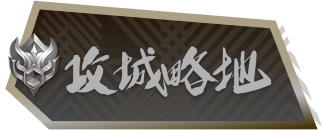
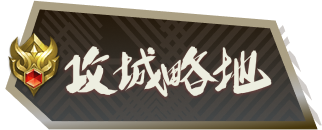
fix: stake init

Changed region(s): [[0.0311, 0.2462, 0.8696, 0.7692]]

diff --git a/src/pages/stake/entry.vue b/src/pages/stake/entry.vue
@@ -1,0 +1,224 @@
+<template>
+  <div class="box">
+    <div class="main">
+      <div class="item" v-for="item in pools" :key="item.key">
+        <div class="inner">
+          <img :src="item.img" alt="" />
+          <div class="top_right">
+            <div>挑战</div>
+            <img src="../../assets/stake/scroll.png" alt="" />
+          </div>
+          <div class="center">
+            <img :src="item.diff" alt="" />
+            <div>{{ getDiffName(item.key) }}</div>
+          </div>
+        </div>
+        <div class="name">
+          {{ item.name }}
+        </div>
+        <div class="apy">APY {{ item.apy }}</div>
+      </div>
+    </div>
+    <div class="badge">
+      <img src="../../assets/stake/bg.png" alt="" />
+    </div>
+    <div class="bottom">
+      <div class="badge_icon">
+        <img src="../../assets/stake/badge.png" alt="" />
+      </div>
+      <div class="title">
+        <div class="text">攻城略地</div>
+        <img src="../../assets/stake/divider.png" alt="" />
+      </div>
+      <div class="back_btn" @click="()=>$router.push({
+          name:'home'})" >
+        <img src="../../assets/stake/back.png" alt="" />
+        <div class="text">主页</div>
+      </div>
+    </div>
+  </div>
+</template>
+
+<script>
+import { reactive, toRefs, onBeforeMount, onMounted } from "vue";
+export default {
+  name: "stake_main",
+  setup() {
+    const data = reactive({
+      pools: [
+        {
+          key: 0,
+          name: "黄巾之乱",
+          apy: "40.5%",
+          time: 7,
+          img: require("../../assets/stake/p_0.png"),
+          diff: require("../../assets/stake/h0.png"),
+        },
+        {
+          key: 1,
+          name: "夷陵之战",
+          apy: "40.5%",
+          time: 15,
+          img: require("../../assets/stake/p_1.png"),
+          diff: require("../../assets/stake/h1.png"),
+        },
+        {
+          key: 2,
+          name: "决战虎牢关",
+          apy: "40.5%",
+          time: 30,
+          img: require("../../assets/stake/p_2.png"),
+          diff: require("../../assets/stake/h2.png"),
+        },
+      ],
+    });
+    const getDiffName = (idx) => {
+      return ["简单", "中等", "困难"][idx];
+    };
+    onBeforeMount(() => {});
+    onMounted(() => {});
+    const refData = toRefs(data);
+    return {
+      ...refData,
+      getDiffName,
+    };
+  },
+};
+</script>
+<style lang='less' scoped>
+.box {
+  width: 100%;
+  height: 100%;
+  position: relative;
+  background: #200202;
+  .badge {
+    position: absolute;
+    width: 80%;
+    left: 50%;
+    bottom: 10%;
+    transform: translate(-50%, 0);
+    z-index: 1;
+    img {
+      width: 100%;
+    }
+  }
+}
+.main {
+  position: absolute;
+  top: 40%;
+  left: 50%;
+  transform: translate(-50%, -50%);
+  display: flex;
+  align-items: center;
+  justify-content: center;
+  background: linear-gradient(180deg, #480808 0%, rgba(104, 18, 18, 0) 100%);
+  z-index: 2;
+  .item {
+    &:hover {
+      opacity: 0.8;
+    }
+    cursor: pointer;
+    width: 18rem;
+    height: 28rem;
+    margin: 0 5rem;
+    margin-top: 5rem;
+    display: flex;
+    flex-direction: column;
+    align-items: center;
+    .inner {
+      width: 100%;
+      height: 100%;
+      position: relative;
+
+      img {
+        border-radius: 16px;
+        width: 100%;
+        height: 100%;
+      }
+      .center {
+        position: absolute;
+        top: 50%;
+        left: 50%;
+        transform: translate(-50%, -50%);
+        display: flex;
+        flex-direction: column;
+        align-items: center;
+        font-size: 1.5rem;
+        img {
+          width: 4rem;
+          margin-bottom: 1rem;
+        }
+      }
+      .top_right {
+        position: absolute;
+        right: 0;
+        top: 0;
+        display: flex;
+        align-items: baseline;
+        font-size: 1.2rem;
+        white-space: nowrap;
+        img {
+          height: 2rem;
+        }
+        transform: translate(10%, -30%);
+      }
+    }
+    .name {
+      font-size: 1.5rem;
+      margin: 1.5rem 0;
+    }
+    .apy {
+      color: white;
+    }
+  }
+}
+.bottom {
+  position: absolute;
+  left: 50%;
+  bottom: 5%;
+  width: 100%;
+  transform: translateX(-50%);
+  display: flex;
+  align-items: center;
+  justify-content: center;
+  .badge_icon {
+    transform: translateX(40%);
+    img {
+      height: 6rem;
+    }
+  }
+  .title {
+    place-self: flex-end;
+    text-align: left;
+    width: 80%;
+    font-size: 1.5rem;
+    .text {
+      width: 100%;
+      padding-left: 4rem;
+      box-sizing: border-box;
+    }
+    img {
+      width: 100%;
+    }
+  }
+  .back_btn {
+    &:hover {
+      opacity: 0.8;
+    }
+    cursor: pointer;
+    position: relative;
+    width: 6rem;
+    img {
+      width: 100%;
+    }
+    .text {
+      position: absolute;
+      top: 50%;
+      left: 50%;
+      transform: translate(-50%, -50%);
+      font-size: 1.5rem;
+      color: white;
+    }
+  }
+}
+</style>

diff --git a/src/pages/index/index.vue b/src/pages/index/index.vue
@@ -28,7 +28,10 @@
       </div>
       <div class="float_left_box">
         <div class="leader_board_box" @click="jump('leader')">
-          <img src="http://118.195.233.125:8080/ipns/k51qzi5uqu5dgrl028jw0vu9g92no96w74irny1skee8oaok5jezrpkq4idajv/rich/assets/index/Leader_board.svg" alt="" />
+          <img
+            src="http://118.195.233.125:8080/ipns/k51qzi5uqu5dgrl028jw0vu9g92no96w74irny1skee8oaok5jezrpkq4idajv/rich/assets/index/Leader_board.svg"
+            alt=""
+          />
           <div class="leader_board_text">排行榜</div>
         </div>
       </div>
@@ -36,14 +39,20 @@
       <div class="float_action_buttons">
         <!-- <img class="up" src="http://118.195.233.125:8080/ipns/k51qzi5uqu5dgrl028jw0vu9g92no96w74irny1skee8oaok5jezrpkq4idajv/rich/assets/index/ac_bottom.png" alt="" /> -->
         <div class="actions_inner">
-          <div class="left">
-            <img src="http://118.195.233.125:8080/ipns/k51qzi5uqu5dgrl028jw0vu9g92no96w74irny1skee8oaok5jezrpkq4idajv/rich/assets/index/left.png" alt="" />
+          <div class="left" @click="jump('stk_entry')">
+            <img src="../../assets/index/left.png" alt="" />
           </div>
           <div class="middle" @click="jump('allStarsEntry')">
-            <img src="http://118.195.233.125:8080/ipns/k51qzi5uqu5dgrl028jw0vu9g92no96w74irny1skee8oaok5jezrpkq4idajv/rich/assets/index/middle.png" alt="" />
+            <img
+              src="http://118.195.233.125:8080/ipns/k51qzi5uqu5dgrl028jw0vu9g92no96w74irny1skee8oaok5jezrpkq4idajv/rich/assets/index/middle.png"
+              alt=""
+            />
           </div>
           <div class="right">
-            <img src="http://118.195.233.125:8080/ipns/k51qzi5uqu5dgrl028jw0vu9g92no96w74irny1skee8oaok5jezrpkq4idajv/rich/assets/index/right.png" alt="" />
+            <img
+              src="http://118.195.233.125:8080/ipns/k51qzi5uqu5dgrl028jw0vu9g92no96w74irny1skee8oaok5jezrpkq4idajv/rich/assets/index/right.png"
+              alt=""
+            />
           </div>
         </div>
       </div>
@@ -91,9 +100,9 @@ export default {
       );
       await getPower();
     });
-    const disconnect = ()=>{
-      window.dispatchEvent(new Event('disconnet_wlt'))
-    }
+    const disconnect = () => {
+      window.dispatchEvent(new Event("disconnet_wlt"));
+    };
     const getPower = async () => {
       const c = store.state.c_hero;
       const list = await c.methods.cardList(data.account).call();
@@ -178,9 +187,11 @@ export default {
   .actions_inner {
     display: flex;
     margin-top: 2rem;
+
     .left {
-      user-select: none;
-      pointer-events: none;
+      &:hover {
+        opacity: 0.6;
+      }
       cursor: pointer;
       position: relative;
       transform: translateX(2rem);

diff --git a/src/router/index.js b/src/router/index.js
@@ -46,6 +46,9 @@ const bf_staked_his = () => import("../pages/all_stars/caiso/bf_stake_his.vue");
 const bf_casio_history = () =>
   import("../pages/all_stars/caiso/bf_history.vue");
 
+// 攻城略地 start
+const stk_entry = () => import("../pages/stake/entry.vue");
+
 const router = createRouter({
   history: routerHistory,
   base: process.env.BASE_URL,
@@ -250,6 +253,11 @@ const router = createRouter({
       path: "/bf_pool",
       name: "bf_pool",
       component: bf_pool,
+    },
+    {
+      path: "/stk_entry",
+      name: "stk_entry",
+      component: stk_entry,
     },
   ],
 });
